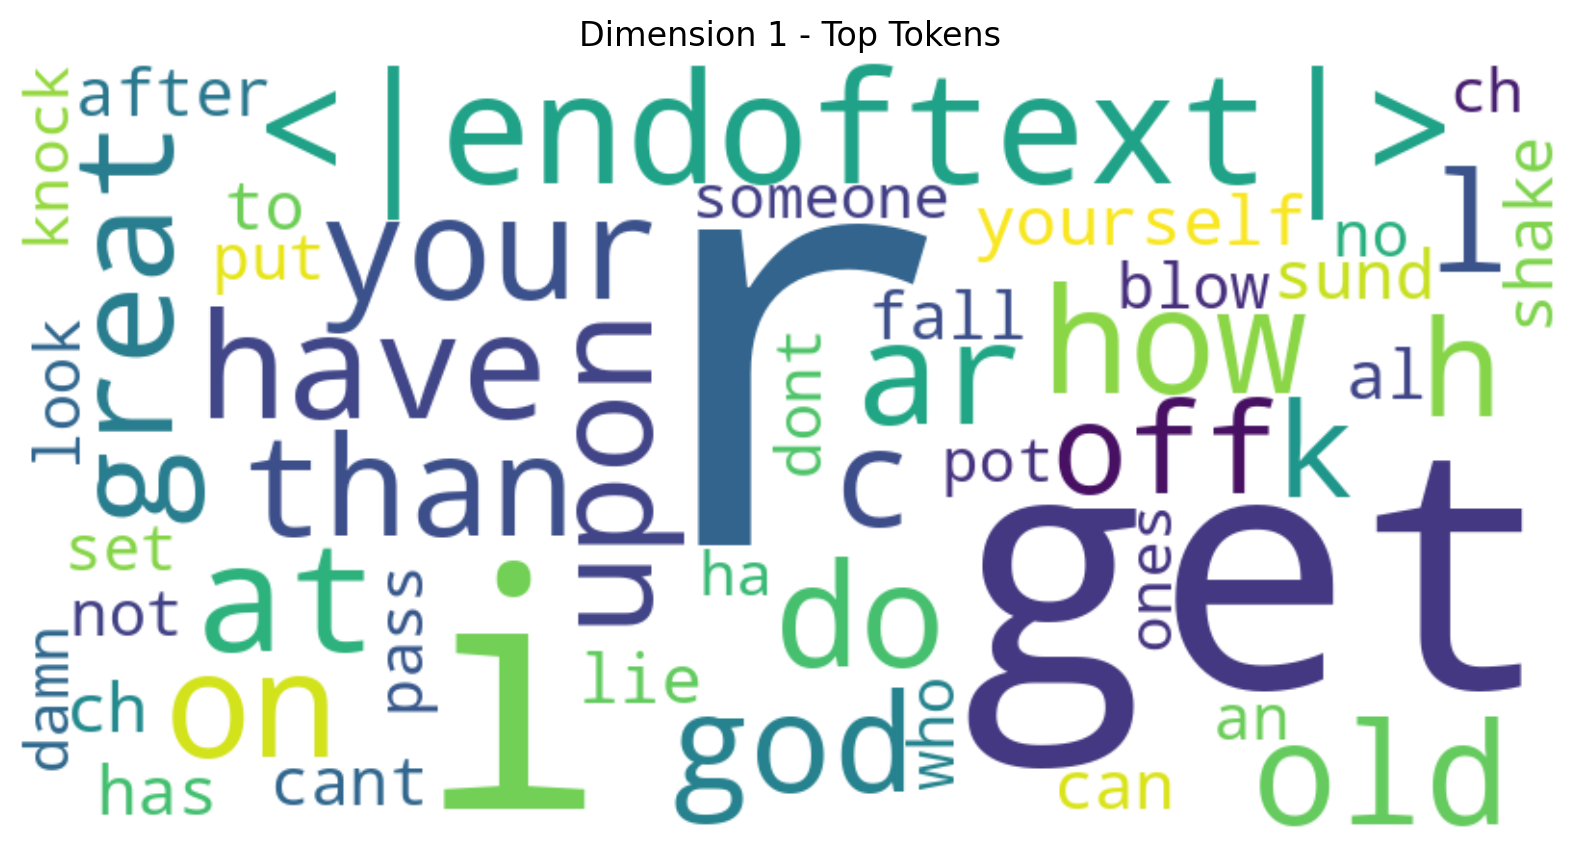
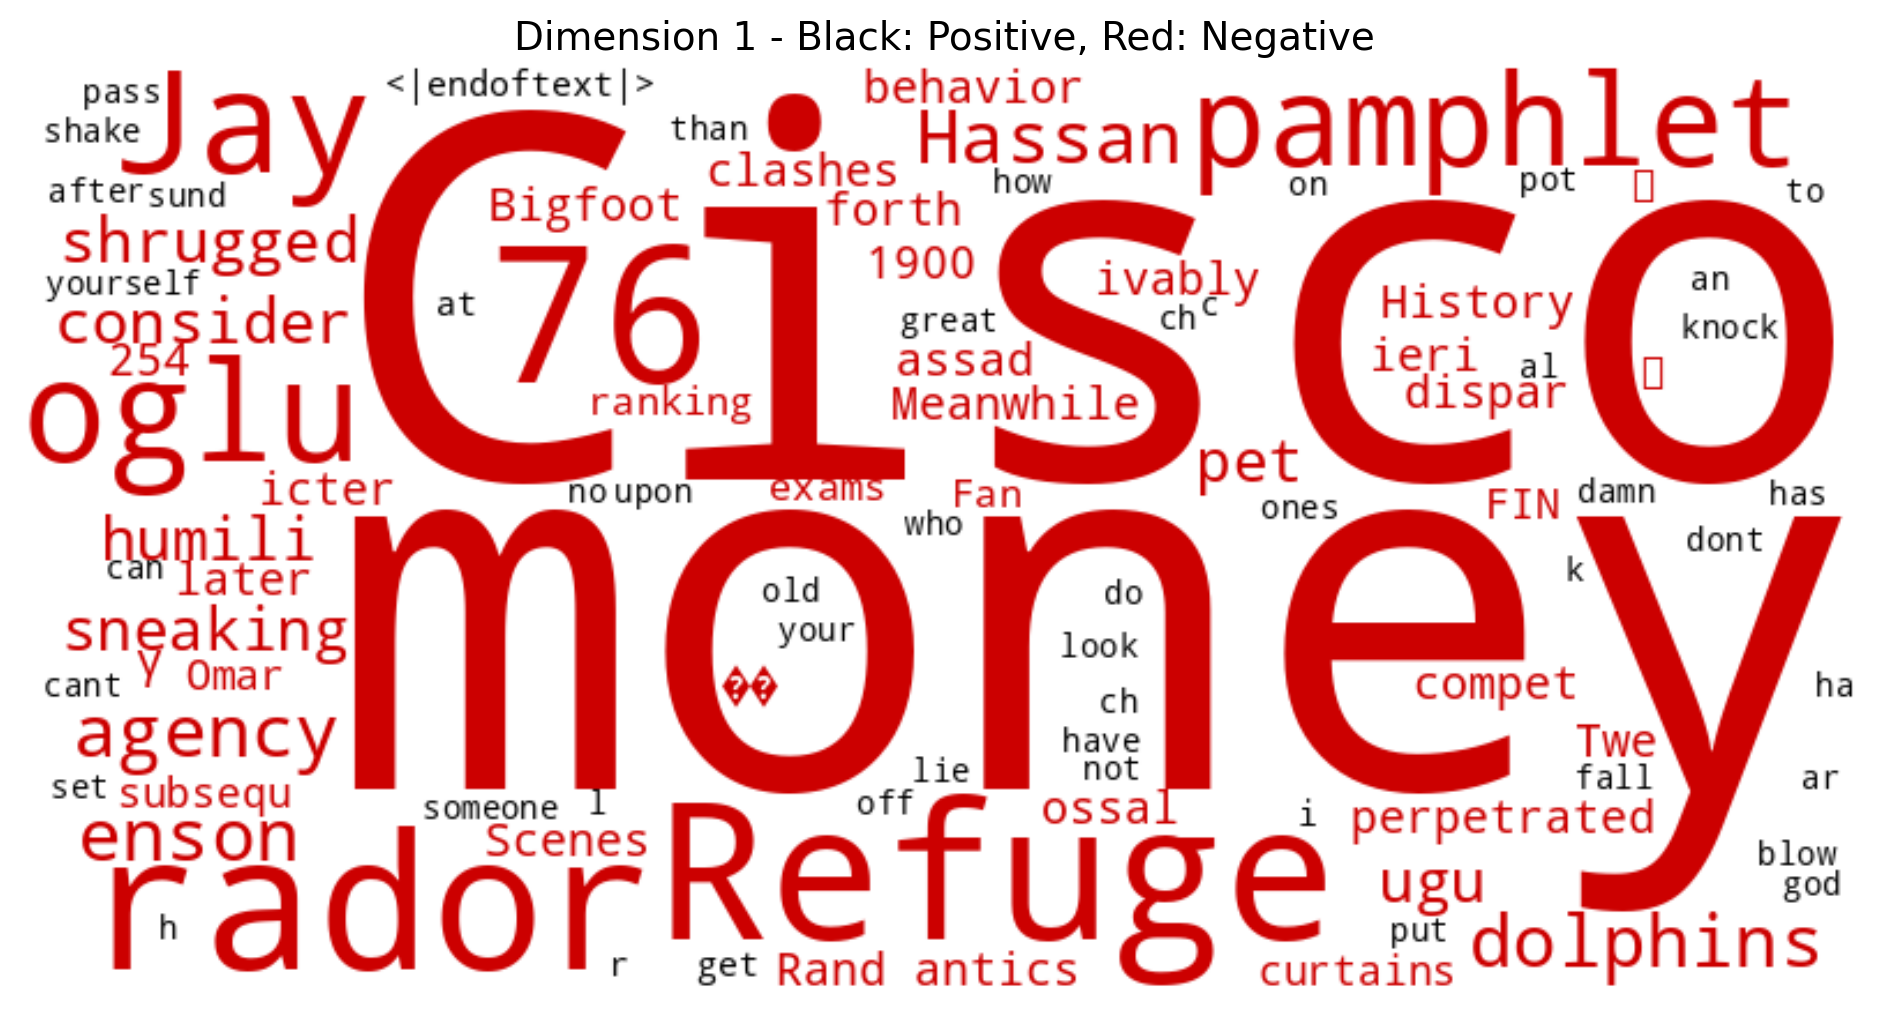
word clouds with black and red colour scheme

diff --git a/visualize_tokens.py b/visualize_tokens.py
@@ -118,42 +118,66 @@ def create_vocab_from_training_data(train_bin_path, expected_vocab_size):
         return {i: f"token_{tokens_by_frequency[i]}" for i in range(len(tokens_by_frequency))}
 
 def create_word_cloud(embeddings, vocab, dimension, output_dir, top_n=50):
-    """Create a word cloud for a specific embedding dimension."""
+    """Create a word cloud for a specific embedding dimension with positive (black) and negative (red) tokens."""
     print(f"Creating word cloud for dimension {dimension}")
     
     # Get values for this dimension
     dim_values = embeddings[:, dimension].numpy()
     
     # Get top positive tokens
-    top_indices = np.argsort(-dim_values)[:top_n]
+    pos_indices = np.argsort(-dim_values)[:top_n]
+    pos_scores = dim_values[pos_indices]
     
-    # Create word frequencies
+    # Get top negative tokens (by sorting the most negative values)
+    neg_indices = np.argsort(dim_values)[:top_n]
+    neg_scores = -dim_values[neg_indices]  # Make positive for word cloud frequencies
+    
+    # Create word frequencies and color mapping
     word_frequencies = {}
-    for idx in top_indices:
-        if dim_values[idx] > 0:  # Only positive values
+    word_colors = {}
+    
+    # Add positive tokens (black)
+    for idx, score in zip(pos_indices, pos_scores):
+        if score > 0:  # Only truly positive values
             token = vocab.get(idx, f"token_{idx}")
             # Clean token string
             if token.strip() and len(token.strip()) > 0:
-                word_frequencies[token] = dim_values[idx]
+                word_frequencies[token] = float(score)
+                word_colors[token] = '#000000'  # Black for positive
+    
+    # Add negative tokens (red)
+    for idx, score in zip(neg_indices, neg_scores):
+        if dim_values[idx] < 0:  # Only truly negative values
+            token = vocab.get(idx, f"token_{idx}")
+            # Clean token string
+            if token.strip() and len(token.strip()) > 0 and token not in word_frequencies:
+                word_frequencies[token] = float(score)  # Use positive value for frequency
+                word_colors[token] = '#CC0000'  # Red for negative
     
     if not word_frequencies:
         print(f"No valid tokens for dimension {dimension}")
         return
     
-    # Create word cloud
+    print(f"Dimension {dimension}: {len([c for c in word_colors.values() if c == '#000000'])} positive (black), {len([c for c in word_colors.values() if c == '#CC0000'])} negative (red) tokens")
+    
+    # Create word cloud with custom color function
+    def color_func(word, **kwargs):
+        return word_colors.get(word, '#000000')
+    
     wordcloud = WordCloud(
         width=800, 
         height=400, 
         background_color='white',
-        max_words=top_n,
-        colormap='viridis'
+        max_words=len(word_frequencies),
+        color_func=color_func,
+        prefer_horizontal=1.0
     ).generate_from_frequencies(word_frequencies)
     
     # Save plot
-    plt.figure(figsize=(10, 5))
+    plt.figure(figsize=(12, 6))
     plt.imshow(wordcloud, interpolation='bilinear')
     plt.axis('off')
-    plt.title(f'Dimension {dimension} - Top Tokens')
+    plt.title(f'Dimension {dimension} - Black: Positive, Red: Negative', fontsize=14)
     
     output_path = os.path.join(output_dir, f'dimension_{dimension}.png')
     plt.savefig(output_path, dpi=200, bbox_inches='tight')
